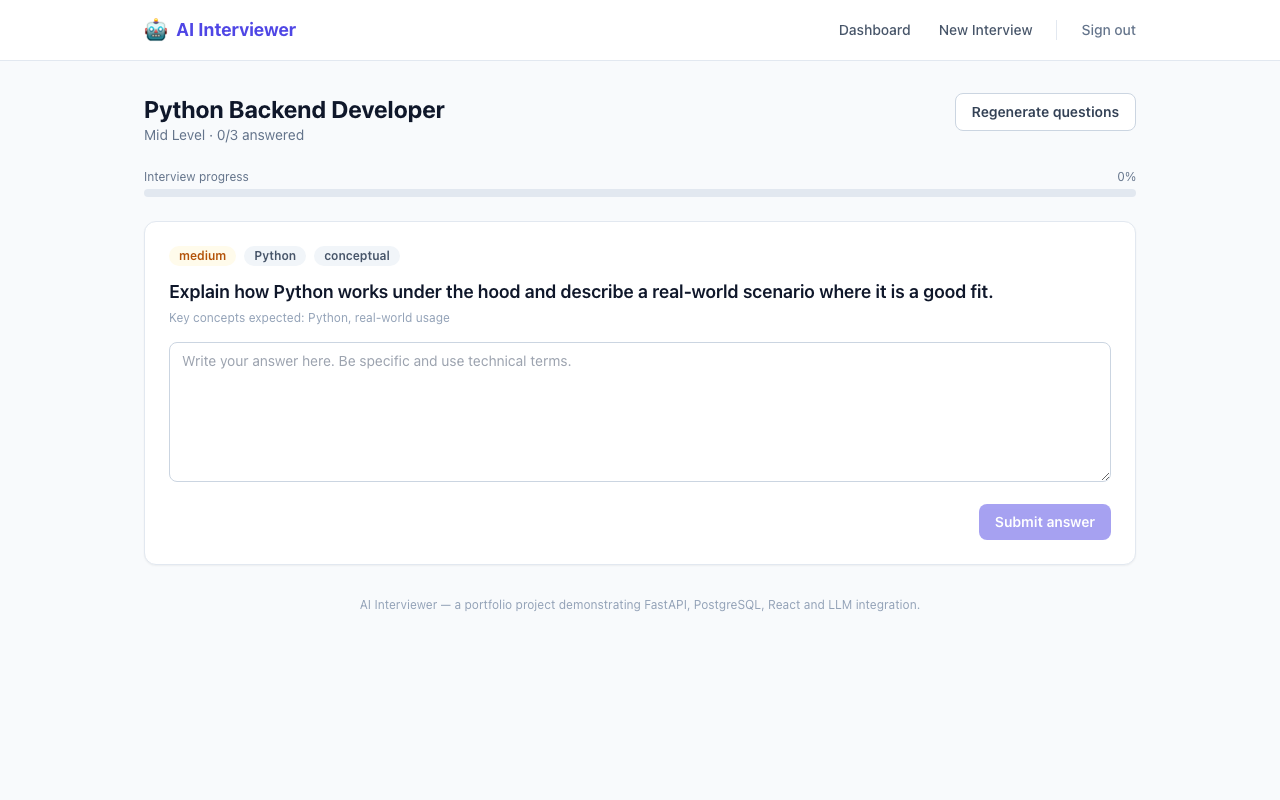
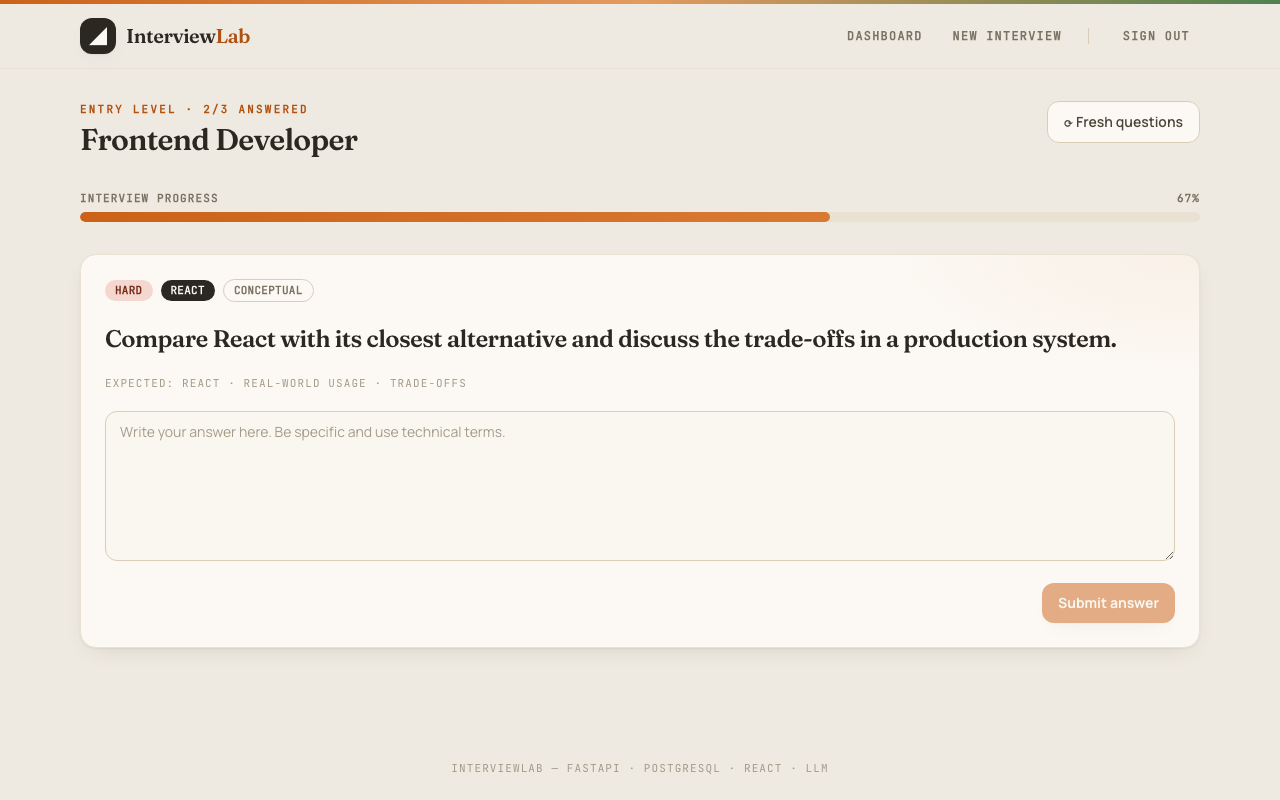
update screenshots and readme

diff --git a/README.md b/README.md
@@ -1,7 +1,8 @@
 # 🤖 AI Interviewer
 
-An AI-powered technical interview platform. A candidate pastes their **resume** and a
-**job description**, chooses a **target role** and **experience level**, and the system
+An AI-powered technical interview platform. A candidate uploads their **resume as a
+PDF** (or pastes it as text) along with a **job description**, chooses a **target role**
+and **experience level**, and the system
 analyzes the match, generates personalized interview questions, evaluates each written
 answer with an LLM, adapts difficulty to performance, and produces a final report with
 skill-wise scores and learning recommendations.
@@ -67,11 +68,19 @@ report with skill-wise scores and concrete next steps.
 
 - 🔐 **JWT auth** — register/login, bcrypt-hashed passwords, per-user data isolation.
 - 📄 **Resume + job description analysis** — candidate skills, required skills, gaps, topics.
+- 🆙 **PDF resume upload** — drag & drop a PDF; text is extracted server-side with
+  `pypdf` and shown for confirmation before the interview is created.
 - ❓ **Personalized question generation** — role-, level- and resume-aware, deduplicated.
+  "Fresh questions" regenerates only the *unanswered* set, so you never repeat yourself.
 - ✍ **Answer evaluation** — 0–10 score, strengths, weaknesses, feedback, missing concepts.
+- ⚠ **Duplicate-answer detection** — pasting the same answer for multiple questions is
+  caught and flagged with a warning instead of silently passing.
 - 📈 **Adaptive difficulty** — rule-based (no ML) adjustment after every answer.
 - 📊 **Final report** — overall + skill-wise scores, summary, recommendations.
-- 🧪 **51 automated tests** with a fully mocked LLM (no API key, no network).
+- 🎨 **Distinctive UI** — warm, medium-tone "InterviewLab" aesthetic with self-hosted
+  fonts (Fraunces, Manrope, JetBrains Mono), layered gradient backgrounds and staggered
+  micro-animations.
+- 🧪 **60 automated tests** with a fully mocked LLM (no API key, no network).
 - 🐳 **Docker Compose** — `docker compose up --build` runs the entire stack.
 - 🔄 **CI/CD** — GitHub Actions: tests, frontend build, Docker build.
 
@@ -190,11 +199,12 @@ Base URL: `http://localhost:8000` (or `http://localhost:8080/api` via the Docker
 | GET | `/interviews` | ✅ | List my interviews (with score/progress) |
 | GET | `/interviews/{id}` | ✅ | Interview detail |
 | POST | `/interviews/{id}/analyze` | ✅ | AI resume + JD analysis |
-| POST | `/interviews/{id}/generate-questions` | ✅ | AI question generation (dedup) |
+| POST | `/interviews/{id}/generate-questions` | ✅ | AI question generation (dedup; `replace_pending` regenerates only unanswered) |
 | GET | `/interviews/{id}/questions` | ✅ | List questions in order |
-| POST | `/questions/{id}/answer` | ✅ | Submit + evaluate an answer |
+| POST | `/questions/{id}/answer` | ✅ | Submit + evaluate an answer (flags duplicates) |
 | POST | `/interviews/{id}/complete` | ✅ | Finalize and build the report |
 | GET | `/interviews/{id}/report` | ✅ | Fetch the final report |
+| POST | `/resume/extract` | – | Upload a PDF resume, returns its extracted text |
 | GET | `/health` | – | Liveness probe |
 
 Interactive docs: **`http://localhost:8000/docs`** (Swagger UI).
@@ -439,16 +449,17 @@ The pipeline fails the build on any test failure.
 
 ## Screenshots
 
-Captured from the running app (mock AI provider):
+Captured from the running app (mock AI provider). The UI uses a warm, medium-tone
+palette (warm paper + burnt-copper accent, Fraunces/Manrope/JetBrains Mono typography).
 
 | | |
 |---|---|
 | **Login** | **Dashboard** |
 | ![Login](docs/screenshots/login.png) | ![Dashboard](docs/screenshots/dashboard.png) |
-| **New interview** | **Interview** |
+| **New interview (PDF upload)** | **Interview** |
 | ![New interview](docs/screenshots/new-interview.png) | ![Interview](docs/screenshots/interview.png) |
-| **Report** | |
-| ![Report](docs/screenshots/report.png) | |
+| **Duplicate-answer warning** | **Report** |
+| ![Duplicate warning](docs/screenshots/duplicate-warning.png) | ![Report](docs/screenshots/report.png) |
 
 ## Future Improvements
 
